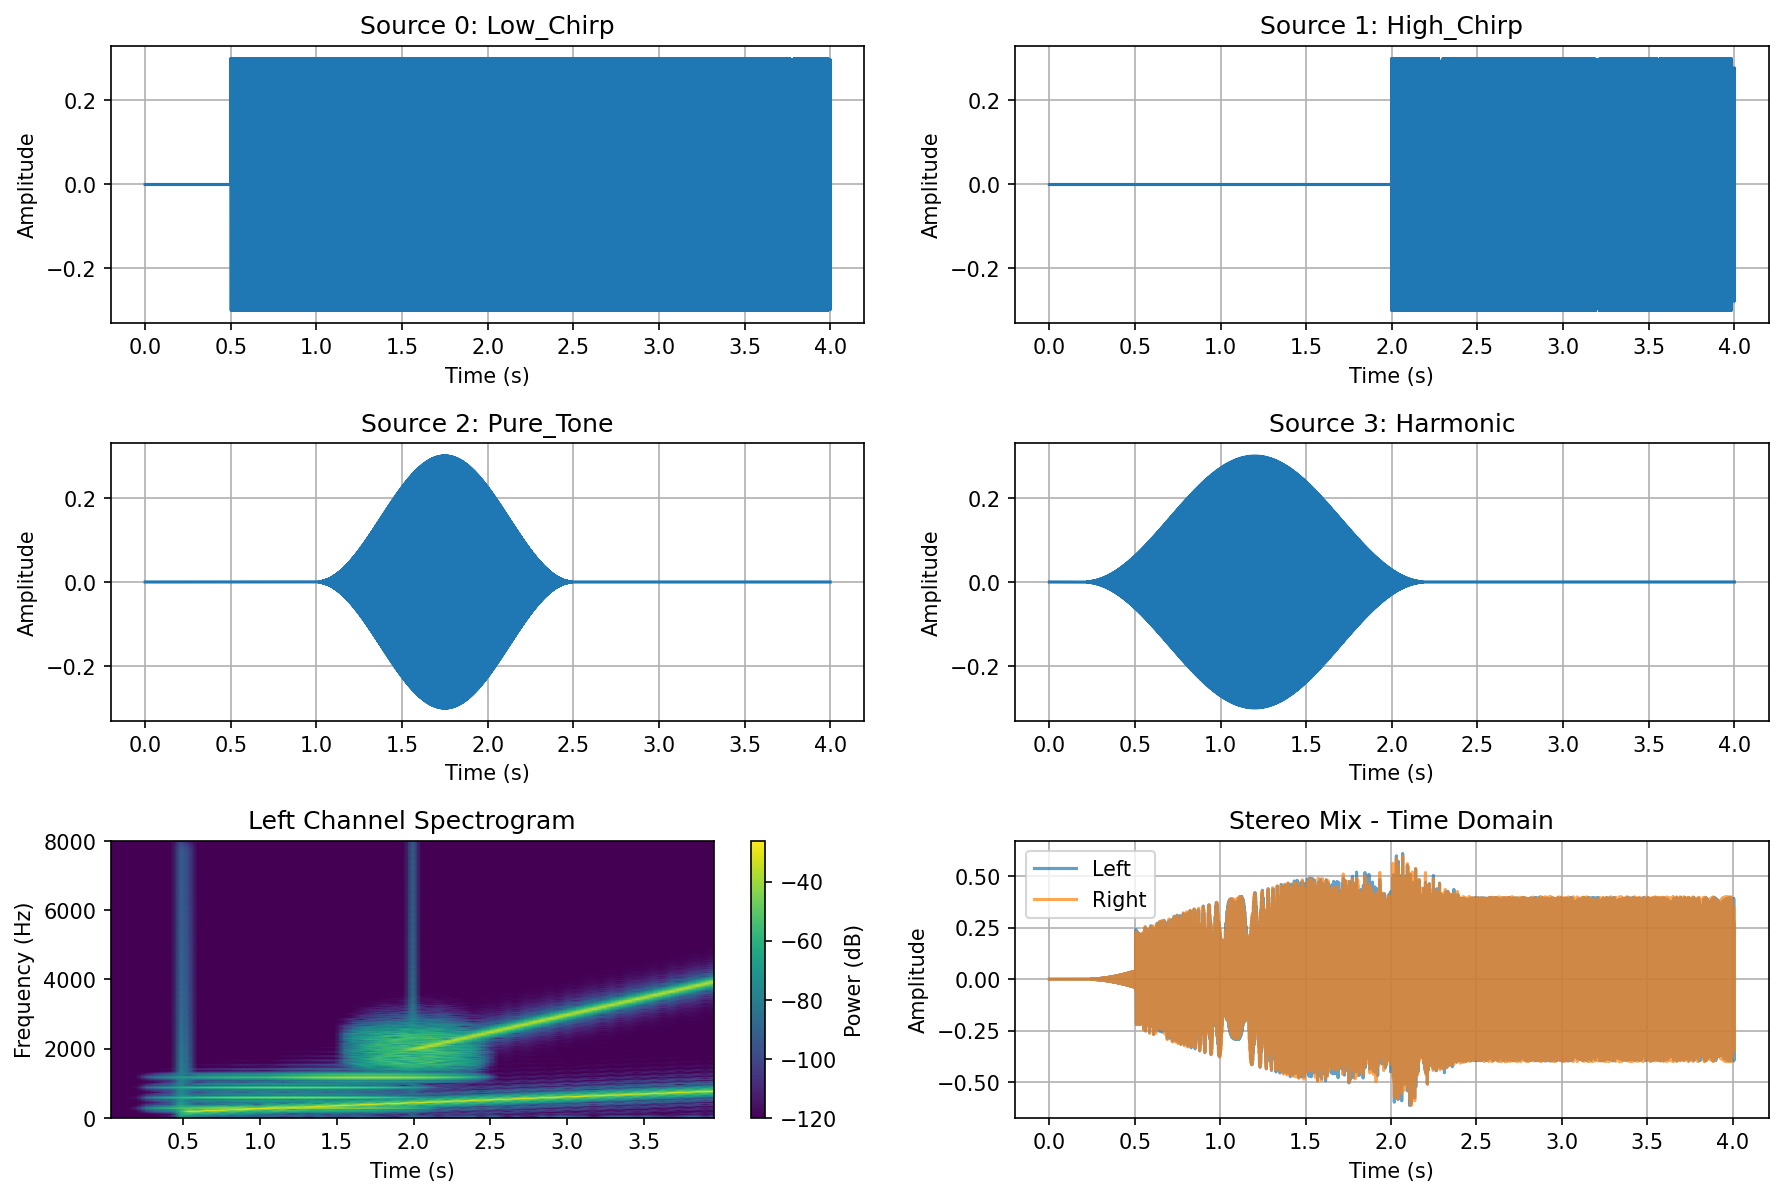
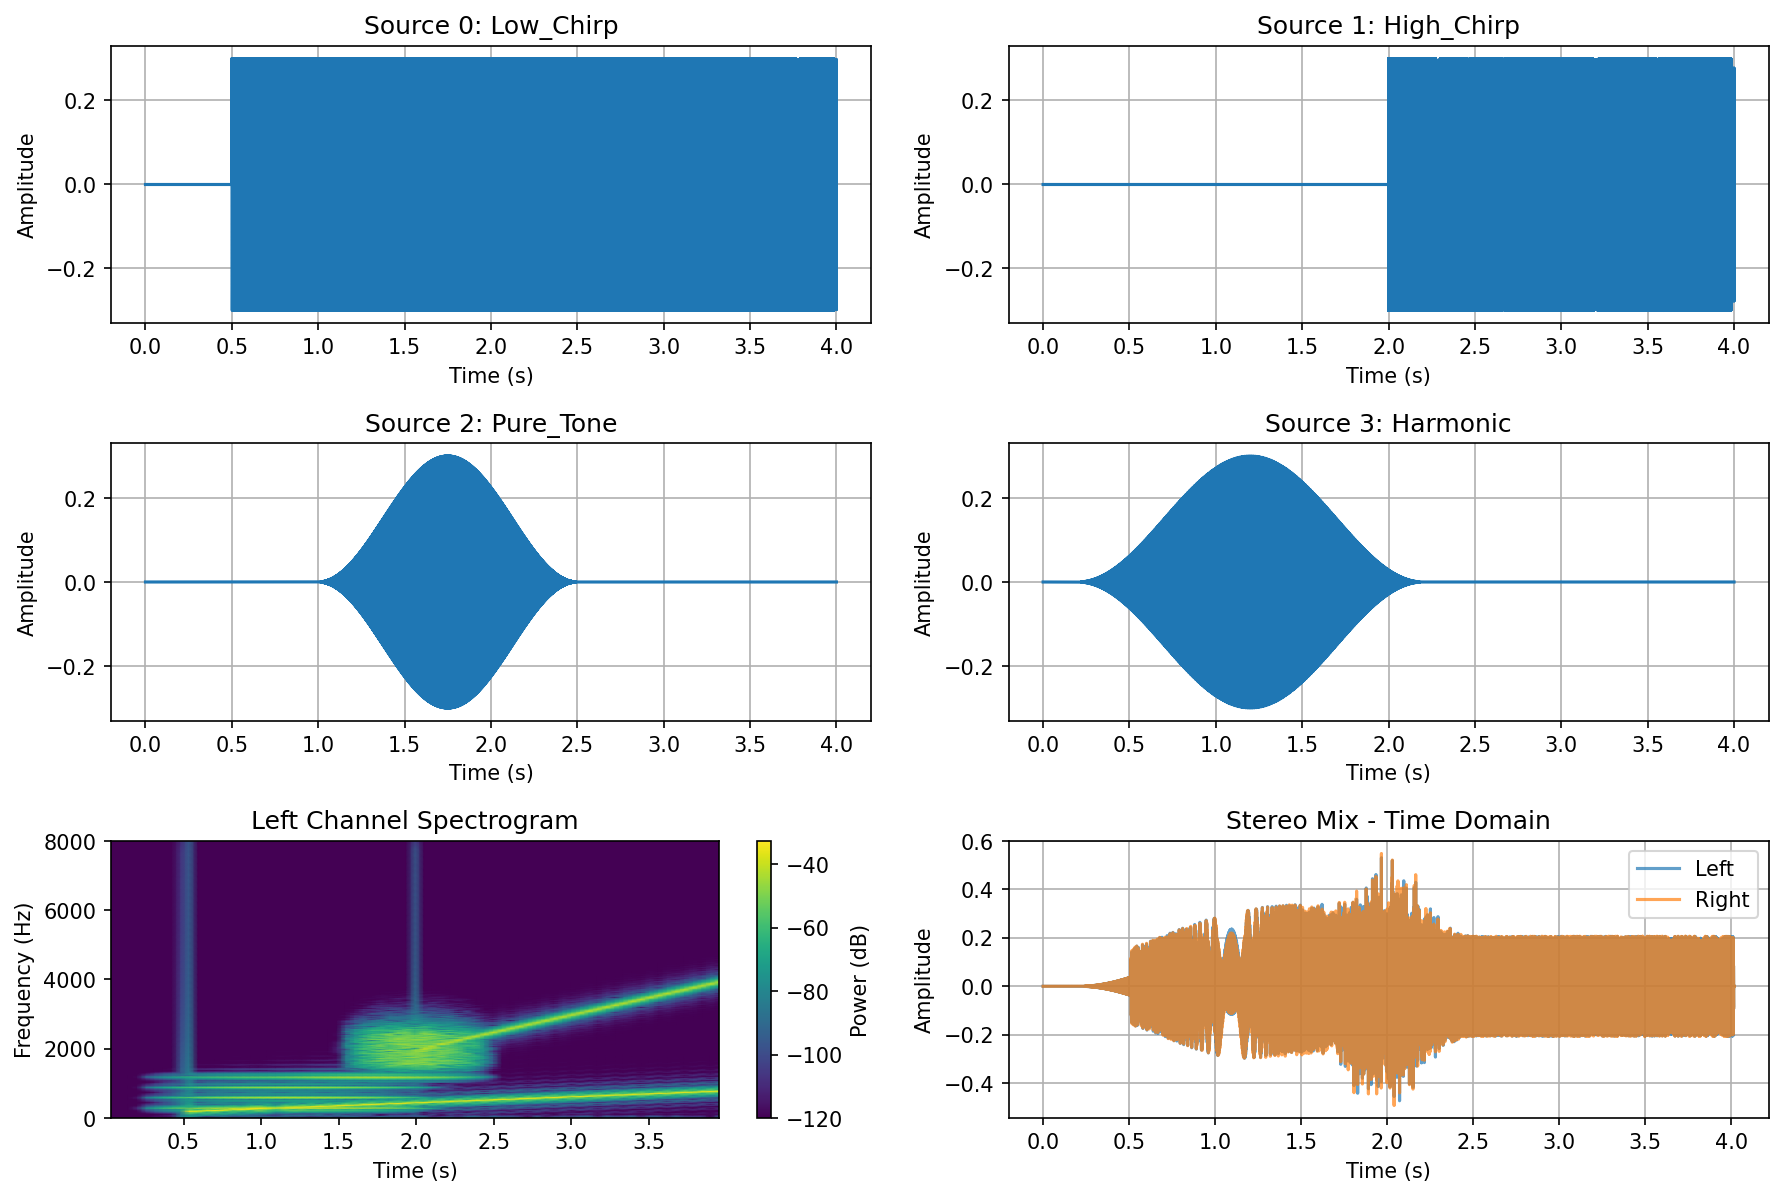
another petnagon attempt

diff --git a/generate_test_signals.py b/generate_test_signals.py
@@ -164,20 +164,23 @@ def setup_room_and_simulate(signals, fs=16000, anechoic=True):
 
     room.add_microphone_array(mic_positions)
 
-        # Source positions - arranged in a pentagon around the microphone pair
-    # Microphones are at [2.0, 1.5, 1.2] (center of room)
-    mic_center = [room_dim[0]/2, room_dim[1]/2, mic_height]
+        # Source positions - pentagon arrangement in front of microphones
+    # All sources on one side of mics, coplanar (same height)
+    mic_center_x = room_dim[0]/2  # Center of microphone array
+    mic_center_y = room_dim[1]/2  # Center of microphone array
 
-    # Create pentagon with radius ~1.5m around microphone center
+    # Create pentagon with radius 1.5m, centered 2m in front of mics
+    pentagon_center_x = mic_center_x
+    pentagon_center_y = mic_center_y + 2.0  # 2m in front of mics
     pentagon_radius = 1.5
-    pentagon_angles = np.linspace(0, 2*np.pi, 6)[:-1]  # 5 angles, 0 to 2π
 
+    # Calculate pentagon vertices (5 points evenly spaced)
+    angles = np.linspace(0, 2*np.pi, 6)[:-1]  # 0, 72, 144, 216, 288 degrees
     source_positions = []
-    for i, angle in enumerate(pentagon_angles):
-        # Position sources in a circle around the microphones
-        x = mic_center[0] + pentagon_radius * np.cos(angle)
-        y = mic_center[1] + pentagon_radius * np.sin(angle)
-        z = mic_center[2]  # Same height as microphones (coplanar)
+    for angle in angles:
+        x = pentagon_center_x + pentagon_radius * np.cos(angle)
+        y = pentagon_center_y + pentagon_radius * np.sin(angle)
+        z = mic_height  # Same height as microphones
         source_positions.append([x, y, z])
 
     # Add sources to room
@@ -191,7 +194,7 @@ def setup_room_and_simulate(signals, fs=16000, anechoic=True):
     # Get the recorded signals at both microphones
     mic_signals = room.mic_array.signals  # Shape: (n_mics, n_samples)
 
-    return mic_signals, room
+    return mic_signals, room, source_positions, mic_positions
 
 
 def save_signals(signals, mic_signals, fs, output_dir="./"):
@@ -313,7 +316,8 @@ def main():
 
     # Print some info about expected delta-alpha distribution
     print(f"\nExpected characteristics:")
-    print(f"- {len(signals)} sources arranged in pentagon around microphones")
+    print(f"- {len(signals)} sources in pentagon arrangement")
+    print(f"- Sources positioned 2m in front of microphones")
     print(f"- Microphone separation: 0.02m (2cm, ~0.8 inches)")
     if anechoic:
         print(f"- Environment: Anechoic (free field, no reflections)")
